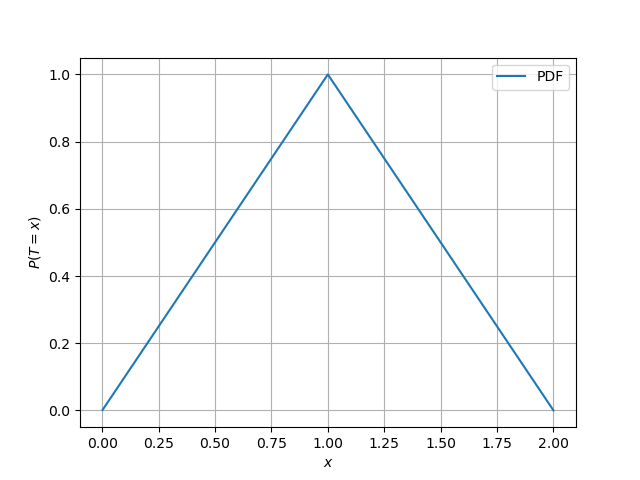
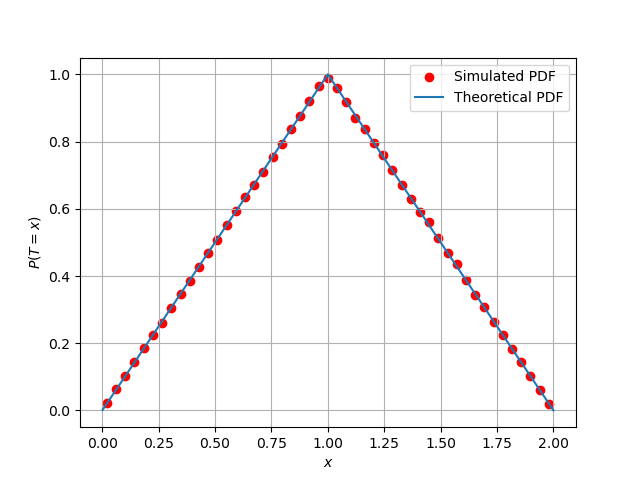
upload

diff --git a/Module-II/Digital_Comm/6.4/Code/6_4_pdf.py b/Module-II/Digital_Comm/6.4/Code/6_4_pdf.py
@@ -11,10 +11,6 @@ T = U1 + U2
 T_ascend = np.sort(T)           # Sorting T in ascending order
 x = T_ascend
 
-# Calculating the CDF of T through simulation
-pdf_sim = np.ones(n)/n
-#cdf_sim = np.cumsum(pdf_sim)
-
 
 # Calculating theoretical PDF of T
 def pdf(x):
@@ -29,9 +25,15 @@ def pdf(x):
 
 y = [pdf(i) for i in x]
 
+# Calculating the CDF of T through simulations
+bin_edges = np.linspace(0, 2, num=50)
+bin_centers = (bin_edges[:-1] + bin_edges[1:]) / 2
+hist, _ = np.histogram(x, bins=bin_edges)
+bin_width = bin_edges[1] - bin_edges[0]
+hist = hist / (bin_width * np.sum(hist))
 
-#plt.plot(T_ascend, pdf_sim, label='Simulated PDF')
-plt.plot(x, y, label='PDF')
+plt.scatter(bin_centers, hist,color='red', label='Simulated PDF')
+plt.plot(x, y, label='Theoretical PDF')
 plt.grid() 
 plt.xlabel('$x$')
 plt.ylabel('$P(T=x)$')
